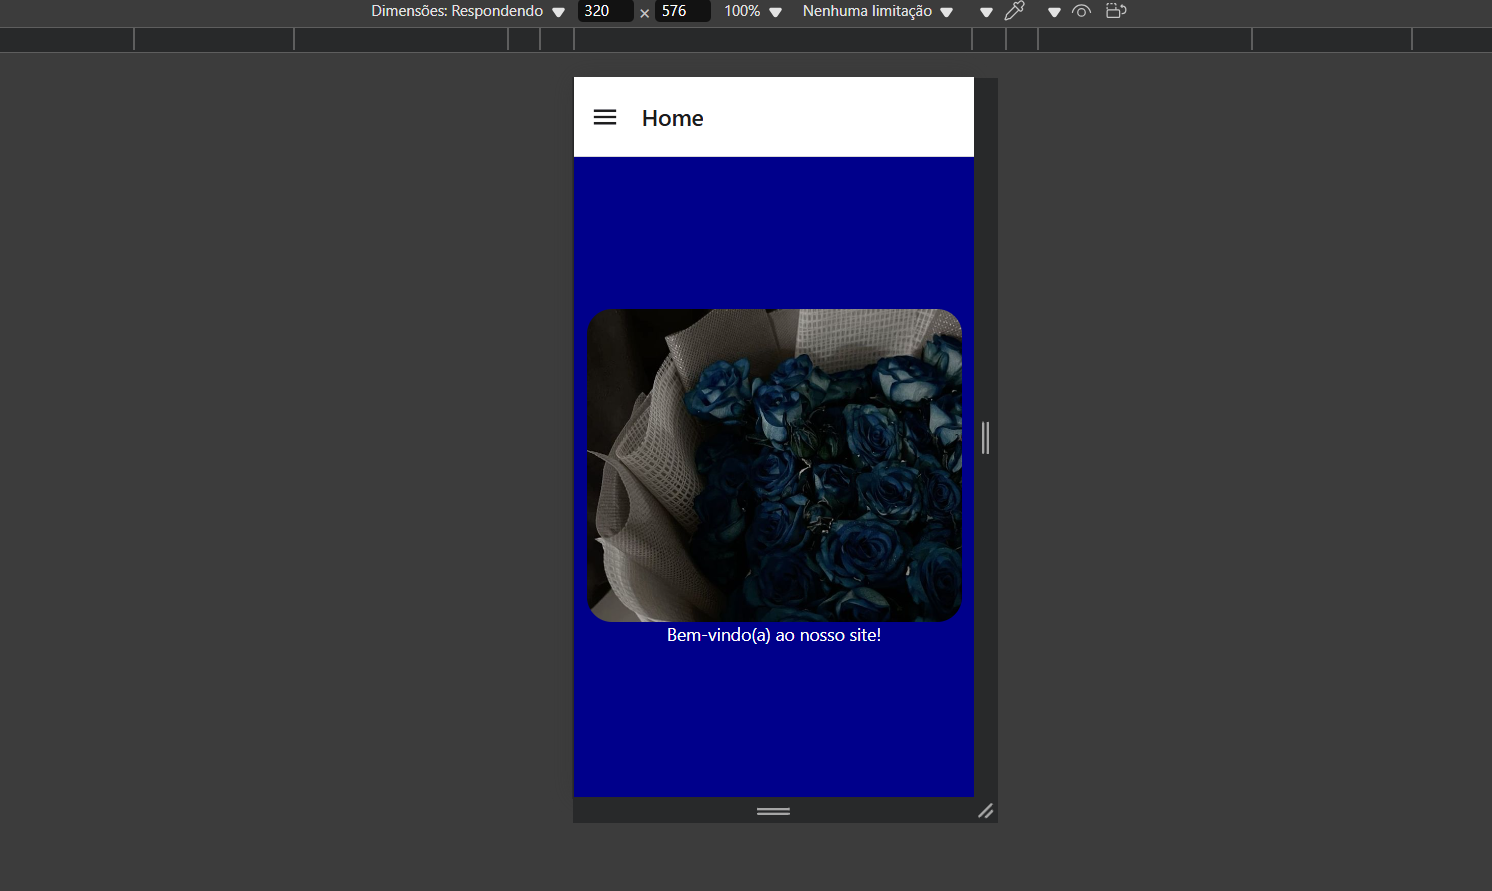
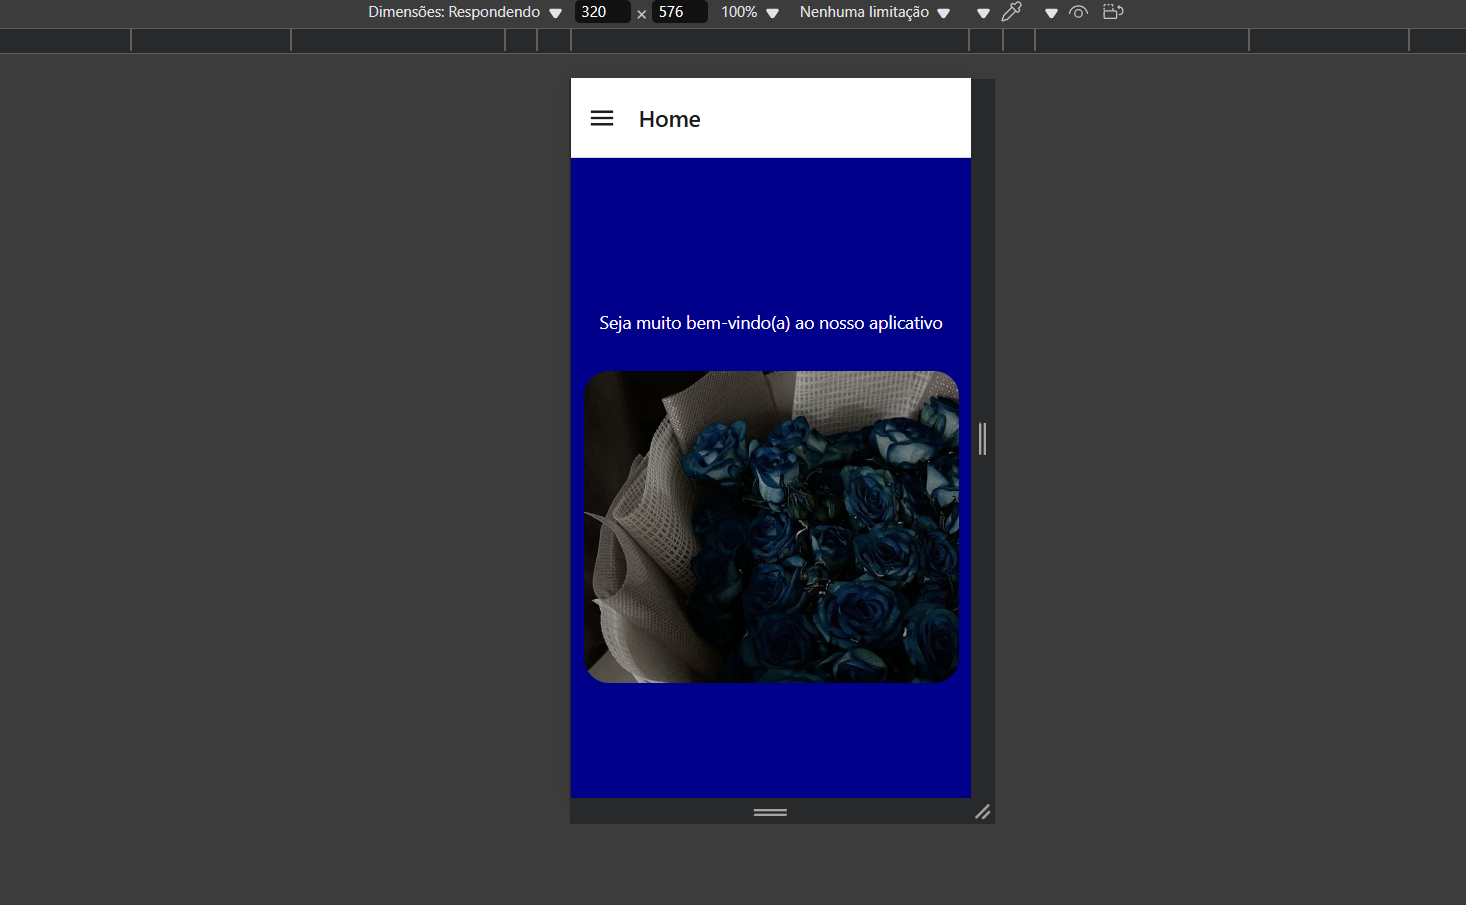
adicionando no README.md

diff --git a/README.md b/README.md
@@ -1,4 +1,3 @@
-Criando 2 páginas utilizando navegação de menu
+Criando uma página utilizando componente Header
 ![image](./assets/img/image1.png)
 ![image](./assets/img/image2.png)
-![image](./assets/img/image3.png)
